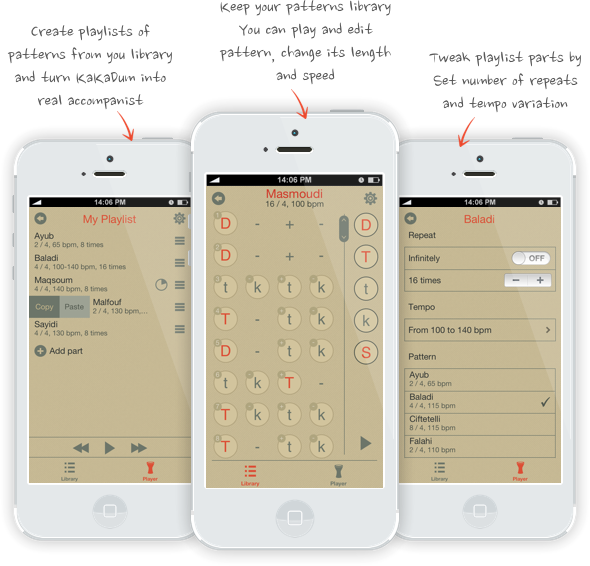
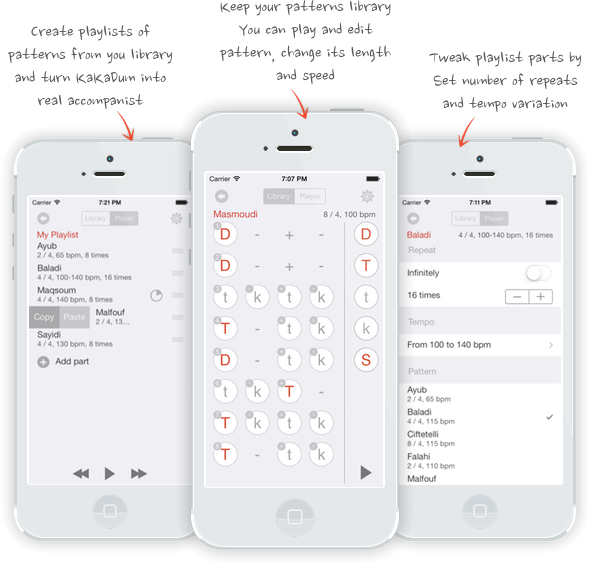
Changed to reflect version 1.1.3

diff --git a/style.css b/style.css
@@ -5,7 +5,7 @@
 }
 
 body {
-	background-color : #e7482d;
+	background-color : white;
 	height : 800px;
 	margin-left : 0px;
 	font-size : 16px;
@@ -79,5 +79,5 @@ header {
 	margin-right : auto;
 	font-family: Arial;
 	font-size: 0.6875em;
-	color : white;
+	color : #e7482d;
 }
